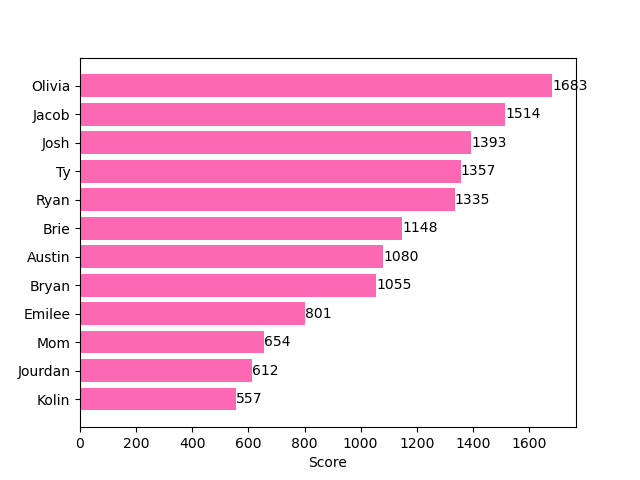
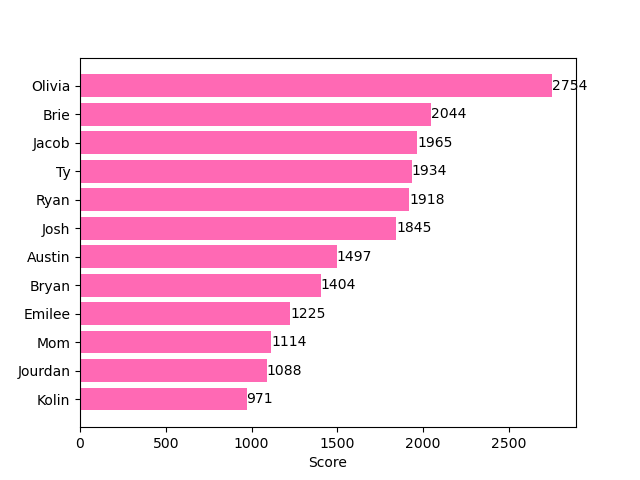
Update the site

diff --git a/seasons/18/index.md b/seasons/18/index.md
@@ -121,13 +121,13 @@ This is how everybody ranked the queens this season:
 
 ## Total Scores
 
-Here's how everybody is doing overall this season:
+Here's how everybody did overall this season:
 
-|                   |   Olivia |   Jacob |   Josh |   Ty |   Ryan |   Brie |   Austin |   Bryan |   Emilee |   Mom |   Jourdan |   Kolin |
-|:------------------|---------:|--------:|-------:|-----:|-------:|-------:|---------:|--------:|---------:|------:|----------:|--------:|
-| Performance Score |     1115 |     650 |    625 |  635 |    570 |    575 |      310 |     155 |      105 |   115 |       130 |     -25 |
-| Rank Score        |      558 |     789 |    738 |  692 |    735 |    563 |      750 |     740 |      651 |   524 |       442 |     582 |
-| Total Score       |     1673 |    1439 |   1363 | 1327 |   1305 |   1138 |     1060 |     895 |      756 |   639 |       572 |     557 |
+|                   |   Olivia |   Brie |   Jacob |   Ty |   Ryan |   Josh |   Austin |   Bryan |   Emilee |   Mom |   Jourdan |   Kolin |
+|:------------------|---------:|-------:|--------:|-----:|-------:|-------:|---------:|--------:|---------:|------:|----------:|--------:|
+| Performance Score |     1225 |    685 |     925 |  865 |    800 |    855 |      430 |     315 |      150 |   130 |       170 |     -25 |
+| Rank Score        |     1529 |   1359 |    1040 | 1069 |   1118 |    990 |     1067 |    1089 |     1075 |   984 |       918 |     996 |
+| Total Score       |     2754 |   2044 |    1965 | 1934 |   1918 |   1845 |     1497 |    1404 |     1225 |  1114 |      1088 |     971 |
 
 ![Total Scores](plots/total_scores.png)
 
@@ -143,7 +143,7 @@ Here is how every queen finished and how many points they earned for each contes
 
 ## Performance Scores
 
-Here's how well everyone's team is doing on a week-to-week basis:
+Here's how well everyone's team did on a week-to-week basis:
 
 ![Weekly Scores](plots/weekly_scores.png)
 
